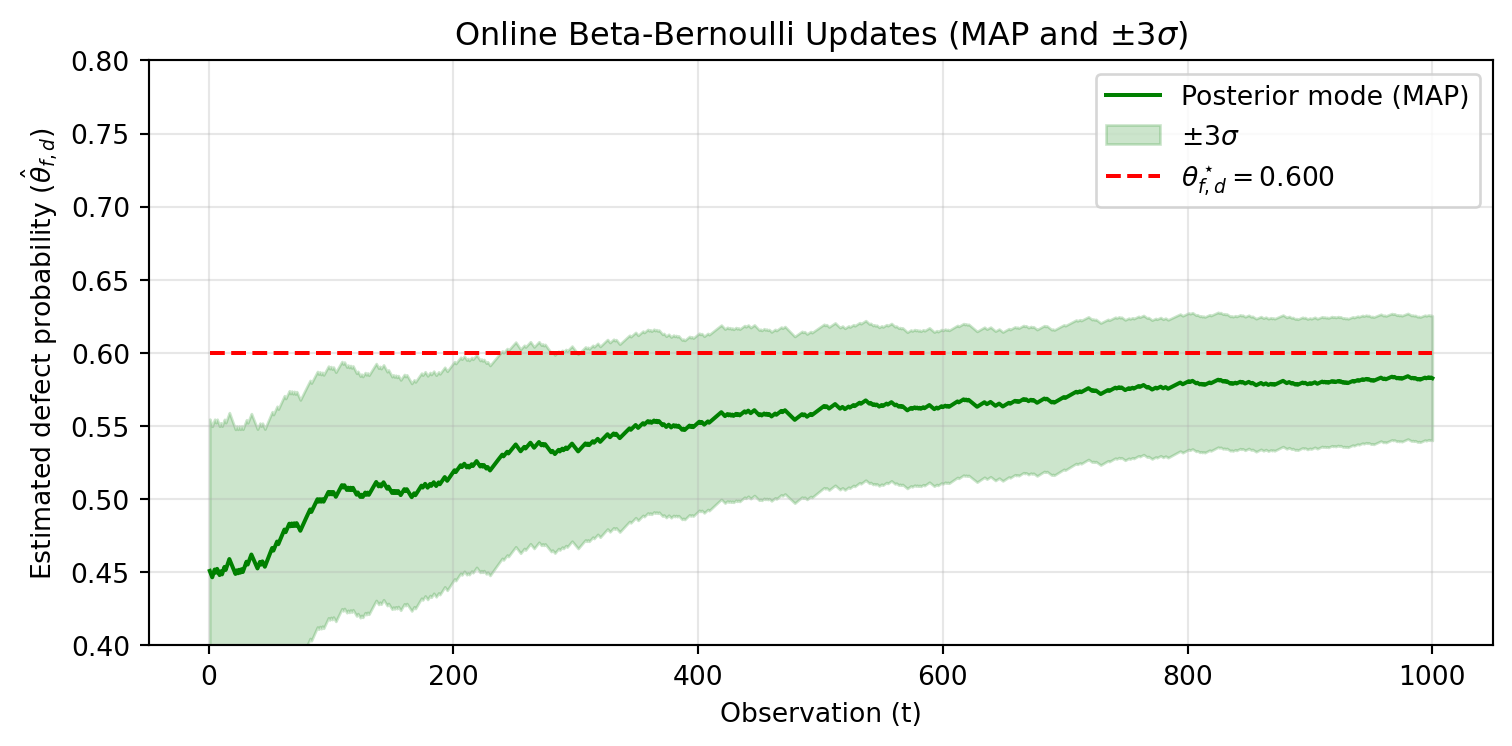
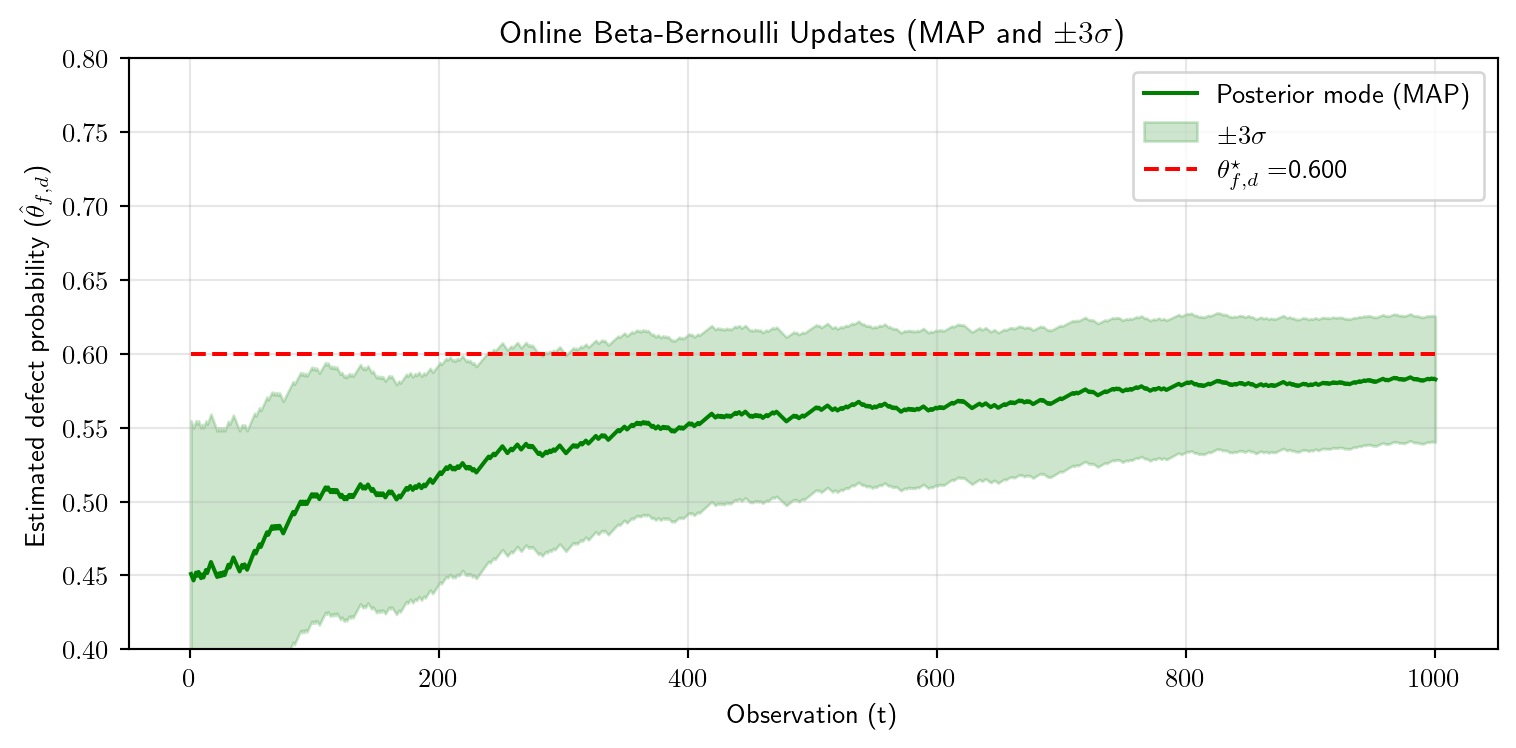
Deploy preview for PR 4 🛫

diff --git a/pr-preview/pr-4/introduction/handling-uncertainty.html b/pr-preview/pr-4/introduction/handling-uncertainty.html
@@ -351,31 +351,44 @@ p(\theta_{f,d} \vert \ \mathcal{D}_f)&amp;\propto Ber(\theta_{f,d})Beta(a, b) \\
 \end{align*}
 \tag{2.7}\]</span></span></p>
 <p>Where <span class="math inline">\(N_f=N_{f,d}+N_{f,nd}\)</span> is the total number of flagged events. Let us plot the prior, likelihood and posterior distributions for our initial example. We can choose the hyperparameters <span class="math inline">\(a\)</span> and <span class="math inline">\(b\)</span> such that the prior mean matches our initial belief of <span class="math inline">\(p(d)=0.02\)</span>. A good choice is to set <span class="math inline">\(a=2\)</span> and <span class="math inline">\(b=98\)</span>, which gives us the same prior mean of <span class="math inline">\(2/(2+98)=0.02\)</span>. For the likelihood, we can use the counts of flagged defective and non-defective events based on our initial example. Assuming we observed <span class="math inline">\(90\)</span> flagged defective events and <span class="math inline">\(15\)</span> flagged non-defective events, we have <span class="math inline">\(N_{f,d}=90\)</span> and <span class="math inline">\(N_{f,nd}=15\)</span>. Thus, our posterior will have parameters <span class="math inline">\(a+N_{f,d}=2+90=92\)</span> and <span class="math inline">\(b+N_{f,nd}=98+15=113\)</span>.</p>
-<div id="62074592" class="cell" data-execution_count="1">
+<div id="89f9112a" class="cell" data-execution_count="1">
 <div class="cell-output cell-output-display">
 <div>
 <figure class="figure">
-<p><img src="handling-uncertainty_files/figure-html/cell-2-output-1.png" width="659" height="378" class="figure-img"></p>
+<p><img src="handling-uncertainty_files/figure-html/cell-2-output-1.png" width="656" height="375" class="figure-img"></p>
 </figure>
 </div>
 </div>
 </div>
-<p>To see how new observations gradually nudge our posterior beliefs, the next simulation follows 1000 consecutive parts. After each part, the posterior is updated and the mode and the error bar is computed based on <a href="#eq-beta-props" class="quarto-xref">Equation&nbsp;<span>2.6</span></a>. The error bar is computed as three times the standard deviation (<span class="math inline">\(3\sigma\)</span>) around the mode, assuming a latent true latent defect probability of flagged events of <span class="math inline">\(\theta_{f,d}^\star=0.6\)</span>.</p>
-<div id="3eb7b215" class="cell" data-execution_count="2">
+<p>To see how new observations gradually nudge our posterior beliefs, the next simulation follows 1000 consecutive parts using the <a href="#algo-beta-bernoulli-update" class="quarto-xref">Algorithm 1</a>. After each part, the posterior is updated and the mode and the error bar is computed based on <a href="#eq-beta-props" class="quarto-xref">Equation&nbsp;<span>2.6</span></a>. The error bar is computed as three times the standard deviation (<span class="math inline">\(3\sigma\)</span>) around the mode, assuming a latent true latent defect probability of flagged events of <span class="math inline">\(\theta_{f,d}^\star=0.6\)</span>.</p>
+<div id="e0e00040" class="cell" data-execution_count="2">
 <div class="cell-output cell-output-display">
 <div>
 <figure class="figure">
-<p><img src="handling-uncertainty_files/figure-html/cell-3-output-1.png" width="756" height="373" class="figure-img"></p>
+<p><img src="handling-uncertainty_files/figure-html/cell-3-output-1.png" width="758" height="374" class="figure-img"></p>
 </figure>
 </div>
 </div>
 </div>
-<p>TODOS:</p>
-<ol type="1">
-<li>Add insights about the plot</li>
-<li>The error at the beginning is too small, how can we improve this?</li>
-<li>Add algorithm for the online update</li>
-</ol>
+<p>Our error bar shrinks as we observe more data, reflecting our increased confidence in the estimate. The mode converges towards the true latent defect probability of flagged events, <span class="math inline">\(\theta_{f,d}^\star=0.6\)</span>, demonstrating how Bayesian updating refines our beliefs with accumulating evidence.</p>
+<div id="algo-beta-bernoulli-update" class="pseudocode-container quarto-float" data-no-end="false" data-indent-size="1.2em" data-pseudocode-number="1" data-line-number="true" data-line-number-punc=":" data-comment-delimiter="//" data-caption-prefix="Algorithm">
+<div class="pseudocode">
+\begin{algorithm} \caption{Sequential Beta-Bernoulli Update for $\theta_{f,d}$}\begin{algorithmic} \INPUT $a_0 \geq 1, b_0 \geq 1$, prior Beta hyperparameters \INPUT $\{d_i\}_{i=1}^T$, sequence of flagged defect observations \OUTPUT $\{\hat{\theta}_{f,d}(t)\}_{t=1}^T$, $\{\sigma(t)\}_{t=1}^T$ \Procedure{BetaBernoulliUpdate}{$a_0, b_0, \{d_i\}_{i=1}^T$} \State $a \leftarrow a_0$ \Comment{initialize posterior parameters} \State $b \leftarrow b_0$ \For{$t = 1$ \To $T$} \State $d \leftarrow d_i$ \Comment{observe whether part is defective} \If{$d = \texttt{defect}$} \State $a \leftarrow a + 1$ \Comment{increment success count} \Else \State $b \leftarrow b + 1$ \Comment{increment failure count} \EndIf \State $\hat{\theta}_{f,d}(t) \leftarrow \dfrac{a - 1}{a + b - 2}$ \Comment{MAP estimate (mode)} \State $\sigma^2(t) \leftarrow \dfrac{ab}{(a+b)^2(a+b+1)}$ \Comment{posterior variance} \State $\sigma(t) \leftarrow \sqrt{\sigma^2(t)}$ \EndFor \State \textbf{return} $\{\hat{\theta}_{f,d}(t)\}_{t=1}^T, \{\sigma(t)\}_{t=1}^T$ \EndProcedure \end{algorithmic} \end{algorithm}
+</div>
+</div>
+<div class="callout callout-style-default callout-note callout-titled">
+<div class="callout-header d-flex align-content-center">
+<div class="callout-icon-container">
+<i class="callout-icon"></i>
+</div>
+<div class="callout-title-container flex-fill">
+<span class="screen-reader-only">Note</span>Generalization
+</div>
+</div>
+<div class="callout-body-container callout-body">
+<p>This algorithm assumes <span class="math inline">\(a_0 \geq 1\)</span> and <span class="math inline">\(b_0 \geq 1\)</span>, which corresponds to using the Beta distribution to encode pseudo-counts or prior observations. For more general priors (e.g., Jeffreys prior with <span class="math inline">\(a_0 = b_0 = 0.5\)</span>), the MAP estimate should be replaced with the posterior mean <span class="math inline">\(\frac{a}{a+b}\)</span> when <span class="math inline">\(a \leq 1\)</span> or <span class="math inline">\(b \leq 1\)</span>, since the mode is undefined in those cases.</p>
+</div>
+</div>
 
 
 <div id="refs" class="references csl-bib-body hanging-indent" data-entry-spacing="0" role="list" style="display: none">
